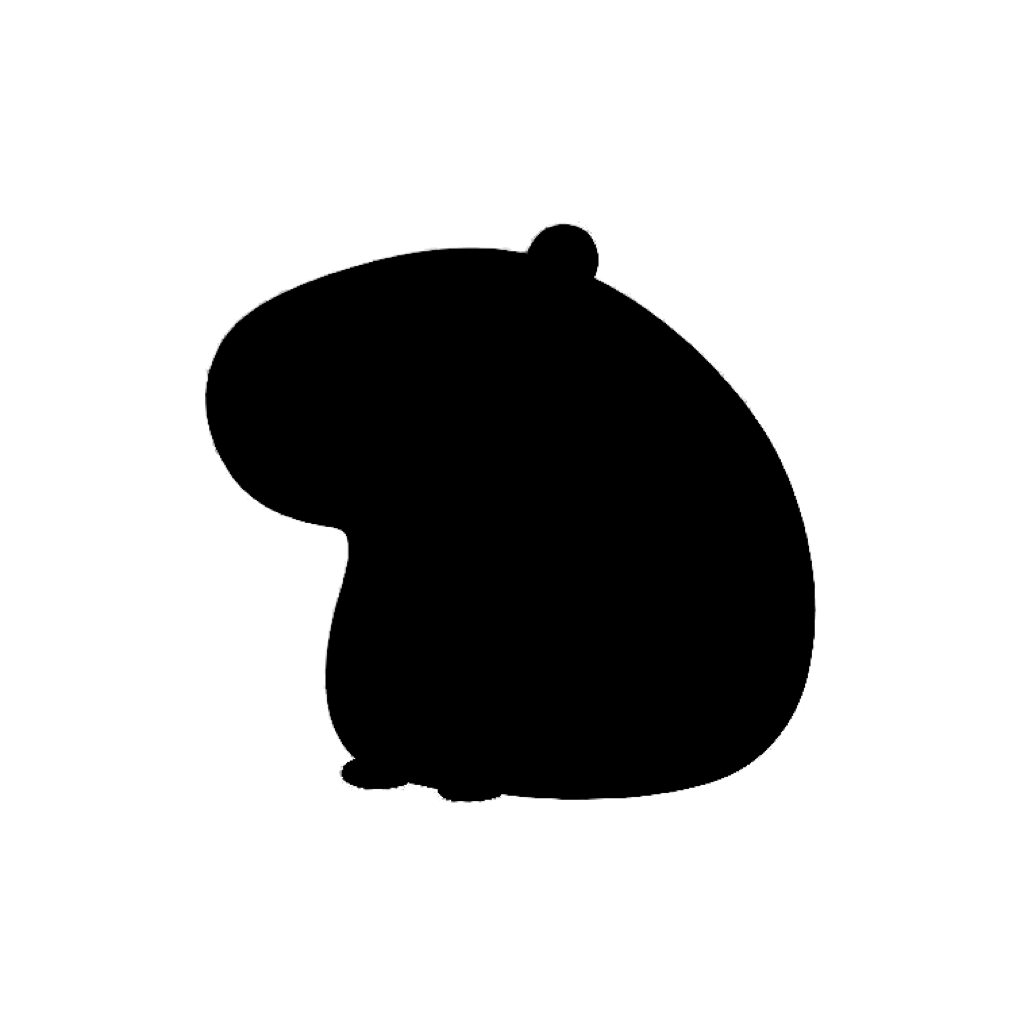
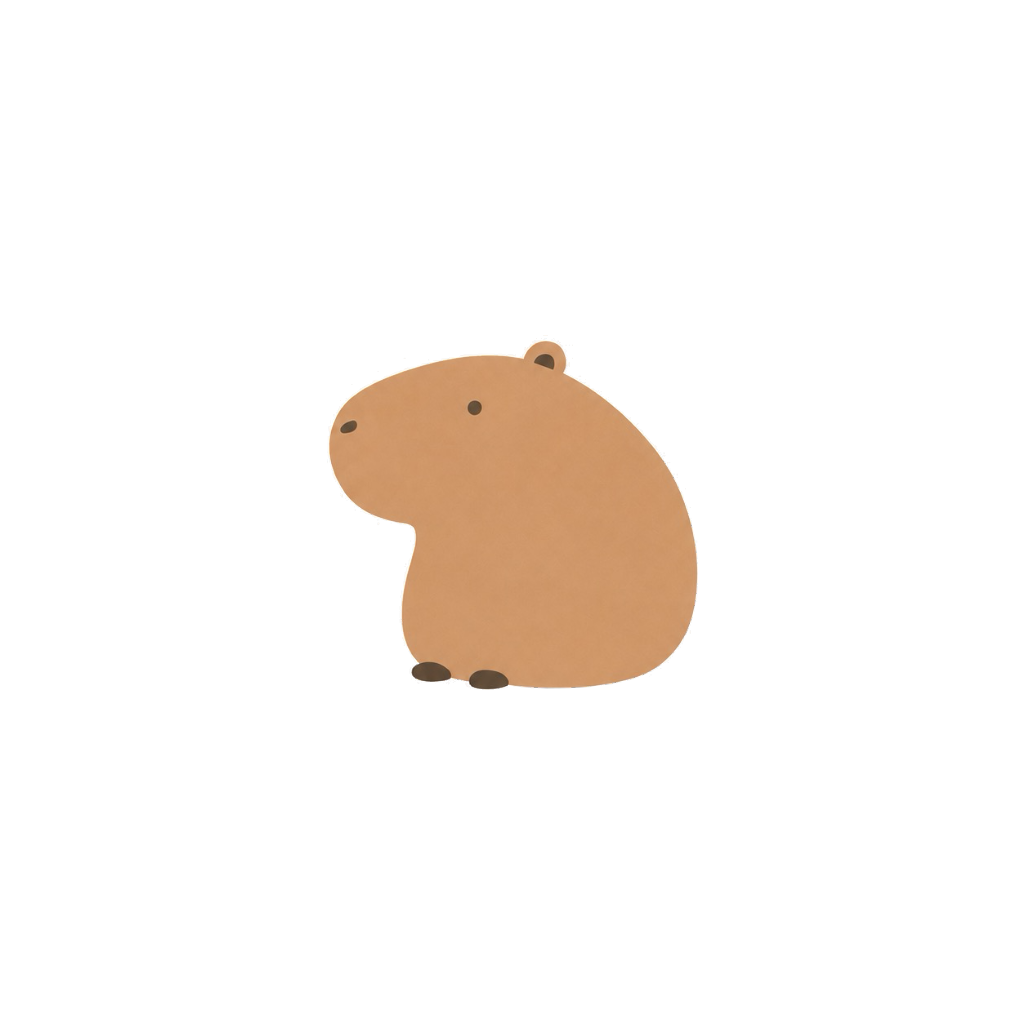
chore: 앱 아이콘·스플래시를 원본 로고의 구도 그대로 되돌린다
`59d21f4` 는 받은 로고에서 내용만 떼어 정사각 가운데에 72%(iOS)·60%(안드로이드
전경)로 키웠다. 런처에서 커 보이게 하려던 것인데, **원본과 배율이 달라져** 로고를
보낸 쪽이 알아보지 못했다. 여백이 넉넉한 것이 이 로고의 구도다 — 그대로 쓴다.

- `icon.png` — `logo.jpeg` 를 1024 로 줄인 것뿐이다. 알파 없음(iOS 요구사항)
- `android-icon-foreground.png` — 면을 지운 내용만. 가로 36.5% · 세로 45.6%
- `android-icon-monochrome.png` — 워드마크를 뺀 카피바라만, 같은 배율

⚠ 세로만 6% 올렸다. 원본은 내용이 캔버스 중앙보다 아래로 치우쳐 있는데, 적응형
아이콘은 안쪽 66% 만 보여서 그대로 두면 원형 마스크가 워드마크 양끝(`M`·`y`)을
자른다. 마스크로 깎아 확인했고 잘리는 픽셀은 0 이다.

## Expo 기본 이미지 둘도 로고로 바꾼다

`splash-icon.png` 와 `favicon.png` 가 아직 회색 동그라미 플레이스홀더였다.

- 스플래시 — 정사각 1024 · 내용은 안쪽 66%(안드로이드 12+ 가 원으로 깎는다).
  그래서 `imageWidth` 는 보이길 바라는 폭이 아니라 그 1.5배인 288 이다
- 배경색 `#F2E9DA` → `#F7F4ED`(`background.normal`). 옛 값은 2세대 `palette.bgMid`
  라 어느 화면의 색도 아니었다 — 첫 화면과 같아야 넘어갈 때 바탕이 튀지 않는다
- 파비콘 — 카피바라만. 16~32px 에서 워드마크는 못 읽고 얼룩이 된다

## 배경을 지울 때 안쪽까지 반투명해지지 않게 한다

평평한 베이지(#F2E4DC) 위의 그림이라 그 한 색을 빼면 되지만, 「이웃의 최대 거리로
알파를 낸다」로만 하면 종이 질감 때문에 몸통이 236 쯤에서 멎고 눈·코 둘레의
살구색은 갈색(215)을 기준으로 나뉘어 106 까지 떨어진다. 색을 되돌리므로
(unpremultiply) 원래 배경 위에선 똑같아 보이지만 **모노크롬 아이콘은 알파만 본다**
— 얼룩진 몸통과 눈 둘레의 구멍이 그대로 드러난다.

거리 90 을 넘으면 알파 1 로 못박고 가장자리만 맞닿은 단색의 거리로 나눈다.
불투명 91,312px · 안쪽 구멍 0 이고, 어두운 배경에 얹어도 후광이 없다.

앱 안 진입 화면(`S0`·`S1`)의 「모멘토리」는 손글씨 워드마크 그대로 둔다(#98) —
그림 로고는 앱 밖에서 보이는 자리에만 쓴다.

⚠ 아이콘은 네이티브 빌드에 구워진다. `npx expo prebuild` + 재빌드가 필요하고,
이 커밋만으로는 실행 중인 앱이 바뀌지 않는다.

Changed region(s): [[0.1875, 0.2188, 0.8125, 0.7812]]

diff --git a/app.config.ts b/app.config.ts
@@ -67,9 +67,15 @@ export default ({ config }: ConfigContext): ExpoConfig => ({
   },
   android: {
     package: "com.momentory.app",
-    // 배경색은 **로고 자체의 배경**이다(`assets/logo.jpeg` 의 면 = #F2E4DC).
-    // 전경 PNG 의 가장자리 픽셀은 그 베이지와 섞인 색을 그대로 들고 있어서,
-    // 배경층이 같은 색일 때만 이음매가 보이지 않는다 — 여기를 바꾸면 테두리가 뜬다.
+    // 배경색은 **로고 자체의 면**이다(`assets/logo.jpeg` = #F2E4DC).
+    //
+    // 전경 PNG 는 그 면을 지운 **내용만**이라(투명 배경), 베이지를 그리는 것은
+    // 배경층 하나뿐이다 — 여기를 바꾸면 카피바라가 다른 색 위에 뜬 것처럼 된다.
+    //
+    // ⚠ 전경의 배율은 **보낸 원본 그대로**다(2026-08-23 · 가로 36.5% · 세로 45.6%).
+    // 여백이 넉넉한 구도라 런처에서 작아 보이지만 그것이 로고의 구도다. 다만
+    // 원본은 내용이 6% 아래로 치우쳐 있어 **세로만 가운데로 되돌렸다** — 적응형
+    // 아이콘은 안쪽 66% 만 보이고, 치우친 채로는 원형 마스크가 워드마크를 자른다.
     adaptiveIcon: {
       backgroundColor: "#F2E4DC",
       foregroundImage: "./assets/android-icon-foreground.png",
@@ -121,13 +127,23 @@ export default ({ config }: ConfigContext): ExpoConfig => ({
     "expo-web-browser",
     ...kakaoPlugin,
     ...insecureApiPlugin,
+    // 스플래시도 **같은 로고 하나**다 — 런처 아이콘과 마찬가지로
+    // `assets/logo.jpeg` 에서 배경을 지워 뽑았다.
+    //
+    // 배경은 앱의 첫 화면과 같은 크림(`ds/color.ts` `background.normal`)이다 —
+    // 스플래시가 다른 색이면 `S0` 로 넘어가는 순간 바탕이 한 번 튄다. 옛 값
+    // `#F2E9DA`(2세대 palette.bgMid)는 어느 화면의 색도 아니었다.
+    //
+    // ⚠ 이미지 안의 내용은 정사각 캔버스의 **안쪽 66%** 에만 있다 — 안드로이드 12+
+    // 는 스플래시 아이콘을 원으로 깎으므로, 가장자리까지 채우면 워드마크가 잘린다.
+    // 그래서 `imageWidth` 는 화면에 보이길 바라는 폭이 아니라 그 1.5배다.
     [
       "expo-splash-screen",
       {
         image: "./assets/splash-icon.png",
-        imageWidth: 200,
+        imageWidth: 288,
         resizeMode: "contain",
-        backgroundColor: "#F2E9DA", // palette.bgMid — 시안 배경의 단색 폴백
+        backgroundColor: "#F7F4ED", // ds/color.ts background.normal
       },
     ],
     [

diff --git a/docs/DESIGN.md b/docs/DESIGN.md
@@ -250,6 +250,42 @@ CTA 위계: 주 행동만 Solid Primary. 보조는 Outlined, 3순위는 Text But
 - 스크롤은 콘텐츠 영역만, 상태바·탭바·상단바는 고정
 - 스크롤 리스트 하단에 탭바 높이 + 20 여백
 
+## 앱 아이콘 · 스플래시
+
+브랜드 그림 로고(카피바라 + `Momentory`)가 서는 자리예요. 원본은 `assets/logo.jpeg`
+하나이고 **파생물은 전부 여기서 뽑아요** — 원본이 있어야 다시 뽑을 수 있어요.
+
+앱 안 진입 화면(`S0`·`S1`)의 「모멘토리」는 **손글씨 워드마크로 따로 가요**
+(`wordmarkHand` · PR #98). 그림 로고는 앱 **밖**에서 보이는 자리에만 써요.
+
+**구도는 원본 그대로예요** (2026-08-23 개정 · 그전에는 내용만 떼어 72%·60% 로
+키웠어요). 여백이 넉넉해 런처에서 작아 보이지만 그것이 로고의 구도예요.
+
+| 자산                           | 무엇                                                             |
+| ------------------------------ | ---------------------------------------------------------------- |
+| `icon.png`                     | **원본 그대로** 1024. 알파 없음(iOS 요구사항)                    |
+| `android-icon-foreground.png`  | 면을 지운 내용만 · 가로 36.5% · **세로만 가운데로** (아래 ⚠)     |
+| `android-icon-monochrome.png`  | 워드마크를 뺀 **카피바라만** — 런처 크기에서 글자는 얼룩이 돼요  |
+| `adaptiveIcon.backgroundColor` | `#F2E4DC` — 로고의 면. 베이지를 그리는 건 이 배경층 하나뿐이에요 |
+| `splash-icon.png`              | 정사각 1024 · 내용은 **안쪽 66%** (아래 ⚠) · 투명 배경           |
+| `favicon.png`                  | 196 · **카피바라만** — 16~32px 에서 글자는 못 읽어요             |
+
+스플래시 배경은 첫 화면과 같은 크림 `#F7F4ED`(`background.normal`)이에요 —
+다른 색이면 `S0` 로 넘어가는 순간 바탕이 한 번 튀어요. 옛 값 `#F2E9DA`(2세대
+`palette.bgMid`)는 어느 화면의 색도 아니었어요.
+
+⚠ **원본은 내용이 6% 아래로 치우쳐 있어요.** 적응형 아이콘은 안쪽 66% 만 보여서,
+치우친 채로 두면 원형 마스크가 워드마크 양끝(`M`·`y`)을 잘라요. 그래서 세로만
+가운데로 되돌렸어요 — 배율은 건드리지 않았어요. 스플래시도 안드로이드 12+ 가
+아이콘을 원으로 깎으므로 같은 66% 안에 둬요(`imageWidth` 는 보이길 바라는 폭이
+아니라 그 1.5배예요).
+
+⚠ **배경을 지울 때 안쪽까지 반투명해지지 않게 해요.** 거리 90 을 넘으면 알파 1 로
+못박고, 가장자리만 맞닿은 단색의 거리로 나눠요. 「이웃의 최대 거리」로만 알파를
+내면 종이 질감 때문에 몸통이 236 쯤에서 멎고 눈·코 둘레가 106 까지 떨어져요 —
+색으로 되돌리면 원래 배경 위에선 똑같아 보이지만, **모노크롬 아이콘은 알파만
+봐요**. 얼룩진 몸통과 눈 둘레의 구멍이 그대로 드러나요.
+
 ## 로그인
 
 소셜 3종(카카오·Google·Apple) 공식 색·마크 유지, 높이 48 · 간격 10.
